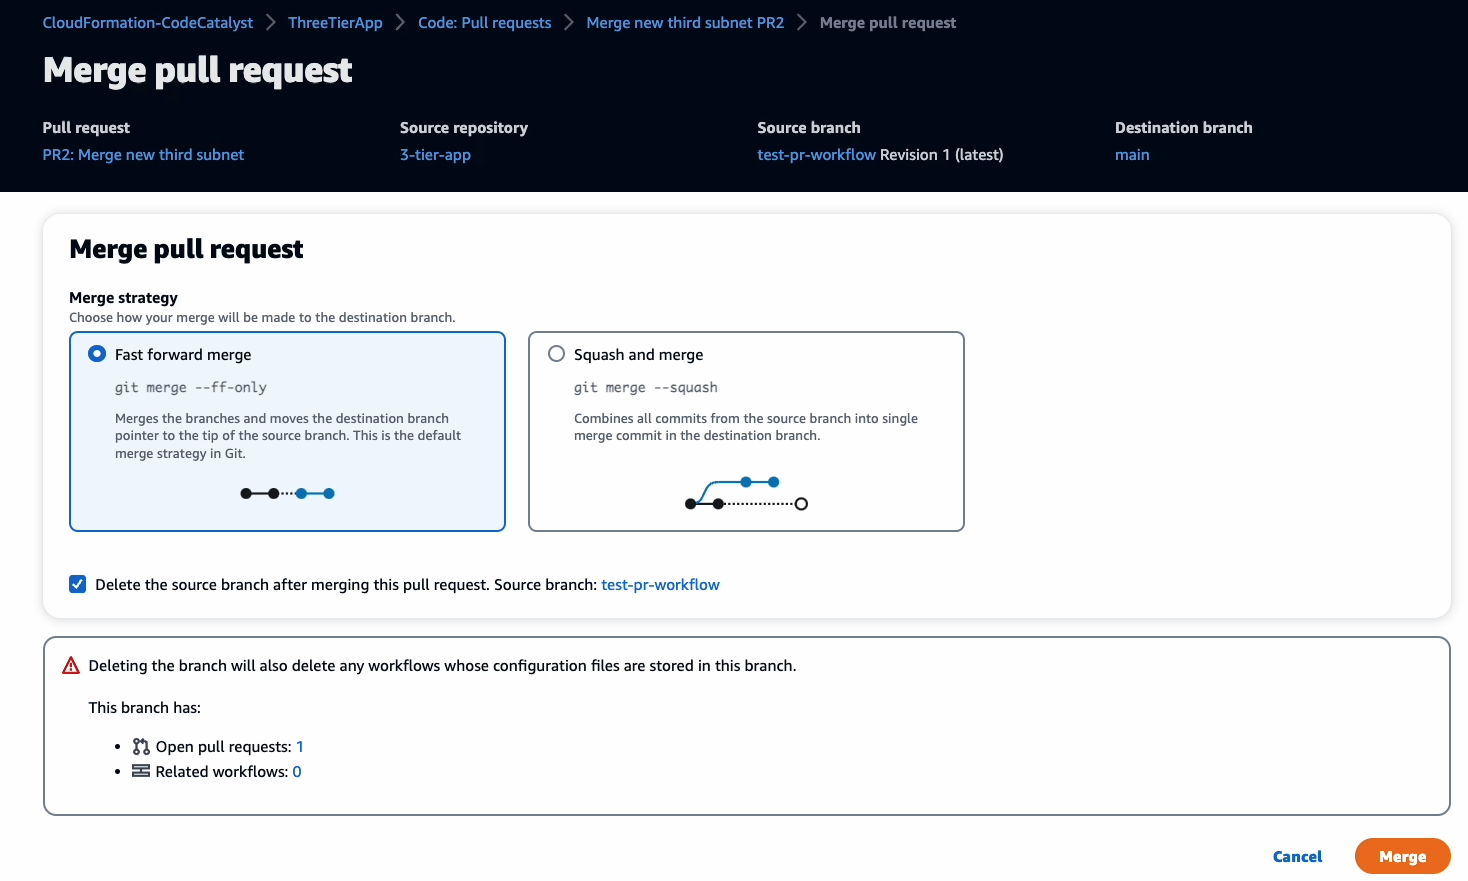
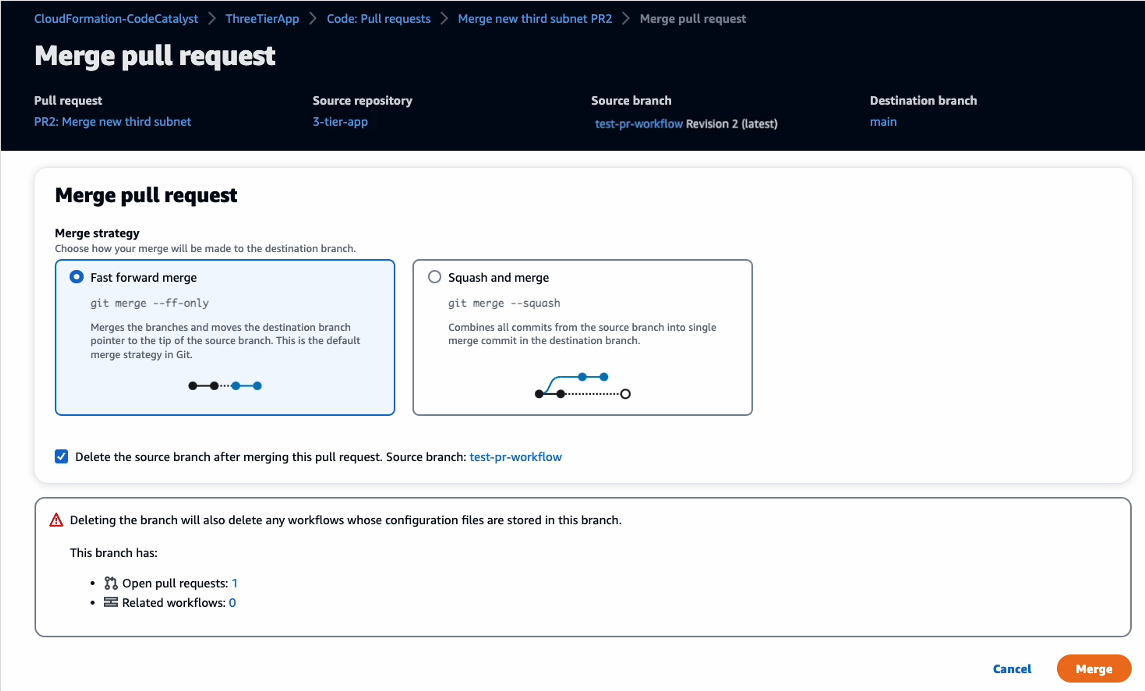
added cfn-lint action to PR workflow
As suggested, added cfn-lint action to PR workflow and updated images for same.

diff --git a/tutorials/build-ci-cd-pipeline-iac-cloudformation/index.md b/tutorials/build-ci-cd-pipeline-iac-cloudformation/index.md
@@ -24,7 +24,7 @@ This tutorial will show you how to set up a CI/CD pipeline using Amazon CodeCata
 | ✅ AWS experience      | 100 - Beginner                                              |
 | ⏱ Time to complete     | 30 minutes                                                      |
 | 💰 Cost to complete    | Free tier eligible                                               |
-| 🧩 Prerequisites       | - [AWS Account](https://portal.aws.amazon.com/billing/signup#/start/email)<br>- [CodeCatalyst Account](https://codecatalyst.aws)<br>- AWS CloudFormation basic understanding|
+| 🧩 Prerequisites       | - [AWS Account](https://portal.aws.amazon.com/billing/signup#/start/email)<br>- [CodeCatalyst Account](https://codecatalyst.aws)<br>- AWS [CloudFormation basic understanding](https://docs.aws.amazon.com/AWSCloudFormation/latest/UserGuide/cfn-whatis-howdoesitwork.html)|
 | 💻 Code Sample         | Code sample used in tutorial on [GitHub](https://github.com/build-on-aws/ci-cd-iac-aws-cloudformation)                            |
 | 📢 Feedback            | <a href="https://pulse.buildon.aws/survey/DEM0H5VW" target="_blank">Any feedback, issues, or just a</a> 👍 / 👎 ?    |
 | ⏰ Last Updated        | 2023-03-02                                                      |
@@ -47,7 +47,7 @@ Follow steps in the documentation to set [Setting up CodeCatalyst](https://docs.
 #### <b>IAM Roles </b>
 We need to create CloudCatalyst service roles in our AWS account. These will be using these to provide permission to CodeCatalyst. This is one time activity only.
 
-Simply deploy a CloudFormation stack. You can find detailed instuctions on how to deploy this stack using AWS Console [here](https://docs.aws.amazon.com/AWSCloudFormation/latest/UserGuide/GettingStarted.Walkthrough.html#GettingStarted.Walkthrough.createstack).
+Simply deploy a CloudFormation stack. You can find detailed instructions on how to deploy this stack using AWS Console [here](https://docs.aws.amazon.com/AWSCloudFormation/latest/UserGuide/GettingStarted.Walkthrough.html#GettingStarted.Walkthrough.createstack).
 
 - Stack name `CodeCatalyst-IAM-roles` 
 - Region: any (preferred `us-west-2`)
@@ -102,7 +102,7 @@ Lastly, we need to setup the AWS environment where our CloudFormation stack will
 From the left navigation panel, select `CI/CD`, `Environments` and click on `Create Environment`. In the Environment details enter following :
 - Environment name : `PreProdEnv`
 - Environment type : `Non-production`
-- Description : `Preprod environment to learn, test and experiment with CloudFormation`
+- Description : `Pre-production environment to learn, test and experiment with CloudFormation`
 - AWS account connection 
     - `Connection` : Select the AWS account ID that will be used in the workflows to deploy this environment
 
@@ -219,8 +219,12 @@ To create the workflow, create a hidden folder in your repo and add a `main_bran
 mkdir -p .codecatalyst/workflows
 touch .codecatalyst/workflows/main_branch.yaml
 ```
+</br>
 
-Open `.codecatalyst/workflows/main_branch.yaml` in your IDE, and add the following - remember to replace the placeholder AWS account ID `123456789012` with the value of your account, and the IAM role name `main_branch_IAM_role`, if you changed it :
+Open `.codecatalyst/workflows/main_branch.yaml` in your IDE, and add the following. Remember to 
+- replace the placeholder AWS account ID `123456789012` with the value of your account, and the IAM role name `main_branch_IAM_role`, if you changed it
+- if you are using your own CloudFormation template, replace the CloudFormation filename in `template`, 
+</br>
 
 * main_branch.yaml
 ``` yaml
@@ -253,6 +257,7 @@ Actions:
       Sources:
         - WorkflowSource
 ```
+</br>
 
 In the workflow, we have provided parameter values for the CloudFormation stack creation. If you are using your own template, make sure you modify the parameter-overrides section and the template name accordingly.
 
@@ -286,8 +291,7 @@ remote: Validating objects: 100%
 To https://git.us-west-2.codecatalyst.aws/v1/CloudFormation-CodeCatalyst/ThreeTierApp/3-tier-app
    eca3764..5677f67  main -> main
 ```
-
-
+</br>
 
 In your browser, navigate to the `CI/CD` -> `Workflows` page. You should see the workflow running:
 
@@ -322,18 +326,22 @@ Lets say you now want to make changes to the infrastructure. For example, we wan
 
 As a **best practice**, you should never make changes directly to the main branch. We should always create a separate branch on which changes will be done, and once these changes are approved by reviewers they will be merged with main branch. There are many git branching strategies that you can explore and use for your specific org/team needs. 
 
-For this blog, I am keeping it simple. Anytime I need to make changes, I am creating a new branch. I then create a Pull Request (PR) to merge the new branch with main branch. As shown in the image, anytime a PR is opened, CodeCatalyst will automatically run PR workflow to create a changeset. Once a reviewer approves the PR merge, then `main_workflow` we created earlier will merge the code and deploy changes to `PreProdEnv`, my non-prod environment. You might have different branching strategies and more tests for your production environment deployment.
+For this blog, I am keeping it simple. Anytime I need to make changes, I am creating a new branch _(step2)_ and I make new changes to infrastructure here _(step3)_. I then create a Pull Request (PR) to merge the new branch with main branch. As shown in the image, anytime a PR is opened _(step4)_, CodeCatalyst will automatically run PR workflow to create a changeset _(step5)_. A ChangeSet allows you to preview how proposed changes to a stack might impact your currently running resources, you can then decide if you want to execute the changes or not.
+
+Once a reviewer approves the changes, and proceeds with merging the pull request _(step6)_, the `main_workflow` that we created earlier will automatically merge the code and deploy changes to `PreProdEnv`, my non-prod environment _(step7)_. You might have different branching strategies and more tests for your production environment deployment.
 
 
 ![Branches and workflows used in the blog](images/branching_workflows_blog_sequence.png)
 
-We are going to first write a PR workflow, so that anytime a new Pull request is created CodeCatalyst will first run this workflow. In this PR workflow, we are **NOT deploying** any changes to the PreProdEnv. When a PR is opened or revised, we are simply creating a CloudFormation changeset. 
-
-Notice the `no-execute-changeset: "1"`option in the workflow below, it indicates whether to run the change set or have it reviewed. Default is `'0'`, which means it will run the change set. We don't want it to execute the changes, we just want to see the changes that will happen if PR is merged, hence we set it to `'1'`, do not execute the changeset.
+We are going to first write a PR workflow, so that anytime a new Pull request is created CodeCatalyst will first run this workflow. In this PR workflow, we are **NOT deploying** any changes to the PreProdEnv. When a PR is opened or revised, we are validating it using [super-linter](https://github.com/marketplace/actions/super-linter) and then creating a CloudFormation changeset. 
 
 Create a new file `pr_branch.yaml` in the hidden `.codecatalyst/workflows/` directory and paste following. 
 
-Remember to replace the placeholder AWS account ID `123456789012` with the value of your account, and the IAM role name `pr_branch_IAM_role`, if you changed it :
+Remember to :
+- replace the placeholder AWS account ID `123456789012` with the value of your account, and the IAM role name `main_branch_IAM_role`, if you changed it
+- if you are using your own CloudFormation template, replace the CloudFormation filename in `template`, 
+
+</br>
 
 * pr_branch.yaml
 ```yaml
@@ -351,8 +359,31 @@ Triggers:
 
 # Required - Define action configurations.
 Actions:
-  DeployAWSCloudFormationstack_7c:
+  Super-Linter_0d:
+    # Identifies the action. Do not modify this value.
+    Identifier: aws/github-actions-runner@v1
+
+    # Specifies the source and/or artifacts to pass to the action as input.
+    Inputs:
+      # Optional
+      Sources:
+        - WorkflowSource # This specifies that the action requires this Workflow as a source
+
+    # Defines the action's properties.
+    Configuration:
+      # Required - Steps are sequential instructions that run shell commands
+      # Action URL: https://github.com/marketplace/actions/super-linter
+      # Please visit the action URL to look for examples on the action usage.
+      # Be aware that a new version of the action could be available on GitHub.
+      Steps:
+        - name: Lint Code Base
+          uses: github/super-linter@v4
+          env:
+            VALIDATE_CLOUDFORMATION: "true"
+  CreateChangeSet:
     Identifier: aws/cfn-deploy@v1
+    DependsOn: 
+      - Super-Linter_0d    
     Configuration:
       parameter-overrides: SSHLocation=54.10.10.2/32,WebServerInstanceType=t2.micro
       capabilities: CAPABILITY_IAM,CAPABILITY_NAMED_IAM,CAPABILITY_AUTO_EXPAND
@@ -371,6 +402,15 @@ Actions:
         - WorkflowSource
 ```
 </br>
+
+In the above Pull Request Workflow, notice following definitions :
+
+1. In the `Super-Linter_0d` action, we are defining `VALIDATE_CLOUDFORMATION: "true"` environment variable. This ensures that our CloudFormation template is validated using the `cfn-lint` github action. [cfn-lint](https://github.com/aws-cloudformation/cfn-lint) is an open source tool that helps validate AWS CloudFormation yaml/json templates against the [AWS CloudFormation Resource Specification](https://docs.aws.amazon.com/AWSCloudFormation/latest/UserGuide/cfn-resource-specification.html) and additional checks. Includes checking valid values for resource properties and best practices.
+
+2. In the `CreateChangeSet` action, the `no-execute-changeset: "1"`option in the workflow below, it indicates whether to run the change set or have it reviewed. Default is `'0'`, which means it will run the change set. We don't want it to execute the changes, we just want to see the changes that will happen if PR is merged, hence we set it to `'1'`, do not execute the changeset.
+
+3. In the `CreateChangeSet` action, we have added a new property `DependsOn: - Super-Linter_0d`. This tells the workflow to first run `Super-Linter_0d` action, and if it is successful, only then run the `CreateChangeSet` action.
+
  
 Now stage, commit, and push our changes directly to the main branch using following commands:
 ``` bash
@@ -402,10 +442,12 @@ CodeCatalyst will then create another workflow. You can confirm this from the Co
 
 ![CodeCatalyst PR Branch Workflow added](images/cc_pr_branch_workflow.png)
 </br>
- 
-Now lets go back to our Dev Environment and make changes to our infrastructure - add a third subnet to the VPC and update resources.
 
-Before we start making changes to the CloudFormation template, ensure we have created a new test-pr-workflow branch. 
+If you click on the `PR_Branch_Workflow`, you can see the workflow. As defined in the workflow yaml above, the workflow will run the  action `Super-Linter_0d` first and if it is successful, only then it will run action `CreateChangeSet`.
+
+ ![CodeCatalyst PR Branch Workflow sequence and dependency](images/cc_pr_workflow.png)
+
+Now lets go back to our Dev Environment and before we start making changes to the CloudFormation template, ensure we have created a new test-pr-workflow branch. 
 
 **Output :** 
 ``` bash
@@ -415,14 +457,14 @@ Switched to a new branch 'test-pr-workflow'
 
 ### Make changes to Cloudformation template
 
-- If you are using **your own CloudFormation template**, make any changes to the template to create a change set.
+- If you are using **your own CloudFormation template**, make any changes to the template to create a change set. 
 
-- **For the sample CloudFormation template** used in this blog, you have 2 options : 
+- **For the sample CloudFormation template** used in this blog, you have **2 options** : 
   - simply **replace its content** with [this already modified template](https://raw.githubusercontent.com/build-on-aws/ci-cd-iac-aws-cloudformation/main/cloudformation-templates/VPC_AutoScaling_With_Public_IPs-3-subnets.json). Make sure the name of template file is same(*VPC_AutoScaling_With_Public_IPs.json*), as workflow has filename mentioned in it, 
   
       OR
 
-  - you can **make following changes** to the template :
+  - you can **make following changes manually** to add third subnet and its resources to the template :
 
     Add following JSON code to the sample CloudFormation template under `Resources` section. 
 
@@ -525,7 +567,7 @@ branch 'test-pr-workflow' set up to track 'origin/test-pr-workflow'.
 ```
 </br>
  
-In the CodeCatalyst Console, navigate to Code -> Repository. You can see the 2 branches main and test-pr-workflow.
+In the CodeCatalyst Console, navigate to `Code` -> `Repository`. You can see the 2 branches `main` and `test-pr-workflow`.
 
 ![CodeCatalyst two branches main default and test-pr-workflow](images/cc_branches.png)
 </br>
@@ -550,22 +592,126 @@ Note, that our source branch is `test-pr-workflow` and our destination for merge
 
 >To see the active run for `PR_Branch_Workflow`, in the CodeCatalyst console, navigate to the `CI/CD` -> `Workflows` page and ensure you select the `test-pr-workflow` branch. By default, the Workflows page always shows the `main` branch. You have to switch branches to see the active workflow in other branches.
 
+</br>
 
-You can goto CloudFormation Console, Changeset and verify the changes proposed by the new pull request. 
+Now you might notice, that this run on `PR_Branch_Workflow` has `failed`.
+![CodeCatalyst run on PR_Branch_Workflow has failed](images/cc_pr_branch_lint_failed.png)
+</br>
+
+If you expand the _**Lint Code Base**_ you will find following :
+```LOG
+[INFO]   --------------------------------------------
+[INFO]   Gathering user validation information...
+[INFO]   - Validating ALL files in code base...
+[INFO]   ----------------------------------------------
+[INFO]   Linting [CLOUDFORMATION] files...
+[INFO]   ----------------------------------------------
+[INFO]   File:[/github/workspace/VPC_AutoScaling_With_Public_IPs.json]
+[ERROR]   Found errors in [cfn-lint] linter!
+[ERROR]   Error code: 4. Command output:
+------
+W7001 Mapping 'AWSInstanceType2NATArch' is defined but not used
+/github/workspace/VPC_AutoScaling_With_Public_IPs.json:56:5
+------
+[INFO]   ----------------------------------------------
+[INFO]   The script has completed
+[INFO]   ----------------------------------------------
+[ERROR]   ERRORS FOUND in CLOUDFORMATION:[1]
+[FATAL]   Exiting with errors found!
+```
+</br>
+
+So, our CloudFormation template did parse through cfn-lint and found one error. We have a mapping resource that is defined but never used anywhere in the template. We should delete this in the template file and push changes to the `test-pr-workflow`
+
+So, back in the Dev Environment on AWS Cloud9  **remove** following block from the CloudFormation template : 
+
+```JSON
+    "AWSInstanceType2NATArch" : {
+      "t1.micro"    : { "Arch" : "NATHVM64"  },
+      "t2.nano"     : { "Arch" : "NATHVM64"  },
+      "t2.micro"    : { "Arch" : "NATHVM64"  },
+      "t2.small"    : { "Arch" : "NATHVM64"  },
+      "t2.medium"   : { "Arch" : "NATHVM64"  },
+      "t2.large"    : { "Arch" : "NATHVM64"  },
+      "m4.large"    : { "Arch" : "NATHVM64"  },
+      "m4.xlarge"   : { "Arch" : "NATHVM64"  },
+      "c1.medium"   : { "Arch" : "NATHVM64"  }
+    },
+```
+</br>
+
+Save the file, stage, commit and push the changes to `test-pr-workflow` branch. As this is a revision to the branch, it should automatically trigger the workflow to run again.
+
+```bash
+$ git add .
+$ git commit -m "Removed unused AWSInstanceType2NATArch mapping"
+$ git push --set-upstream origin test-pr-workflow
+``` 
+</br> 
+
+Output : 
+```
+$ git add .
+$ git commit -m "Removed unused AWSInstanceType2NATArch mapping"
+[test-pr-workflow 64a27b5] Removed unused AWSInstanceType2NATArch mapping
+ 1 file changed, 1 insertion(+), 11 deletions(-)
+$ git push  --set-upstream origin test-pr-workflow
+Enumerating objects: 5, done.
+Counting objects: 100% (5/5), done.
+Delta compression using up to 2 threads
+Compressing objects: 100% (3/3), done.
+Writing objects: 100% (3/3), 319 bytes | 159.00 KiB/s, done.
+Total 3 (delta 2), reused 0 (delta 0), pack-reused 0
+remote: Validating objects: 100%
+To https://git.us-west-2.codecatalyst.aws/v1/CloudFormation-CodeCatalyst/ThreeTierApp/3-tier-app
+   1f8e97d..64a27b5  test-pr-workflow -> test-pr-workflow
+branch 'test-pr-workflow' set up to track 'origin/test-pr-workflow'.
+```
+</br>
+
+In your browser, navigate to the `CI/CD` -> `Workflows` page. Make sure you select the `test-pr-workflow` branch. A new run should now be active.
+
+You can confirm the new workflow has run successfully.
+![Alt text](images/cc_super_lint_success_1.png)
+</br>
+
+If you expand on _**Lint Code Base**_, you will find following text that identifies no errors :
+```LOG
+[INFO]   --------------------------------------------
+[INFO]   Gathering user validation information...
+[INFO]   - Validating ALL files in code base...
+[INFO]   ----------------------------------------------
+[INFO]   Linting [CLOUDFORMATION] files...
+[INFO]   ----------------------------------------------
+[INFO]   File:[/github/workspace/VPC_AutoScaling_With_Public_IPs.json]
+[INFO]   - File:[VPC_AutoScaling_With_Public_IPs.json] was linted
+[INFO]   ----------------------------------------------
+[INFO]   The script has completed
+[INFO]   ----------------------------------------------
+[NOTICE]   All file(s) linted successfully with no errors detected
+```
+</br>
+
+Now, the workflow will proceed to next action `CreateChangeSet`. 
+
+![CodeCatalyst PR Workflow CreateChangeSet Success](images/cc_createchangeset_success.png)
+</br>
+
+Once the action is successful, you can goto CloudFormation Console, Changeset tab and verify the changes proposed by the new pull request. 
 
 ![Console CloudFormation Changeset ](images/console_cfn_change_set.png)
 </br>
 
-A reviewer will confirm the changes and then click on `Merge` 
+A reviewer will confirm that all the actions have run successfully, the changeset is clean. In our case, I am the reviewer so in my browser, I will goto the `Code` -> `Pull Requests`, and then click on `Merge`.
 
-If there are conflicts, or if the merge can't be completed, the merge button is inactive, and a `Not mergeable` label is displayed.  In that case, you must obtain approval from any required approvers, resolve conflicts locally if necessary, and push those changes before you can merge.
+>If there are conflicts, or if the merge can't be completed, the merge button is inactive, and a `Not mergeable` label is displayed. In that case, you must obtain approval from any required approvers, resolve conflicts locally if necessary, and push those changes to the `test-pr-workflow` before you can merge. 
 
-![CodeCatalyst Mergeable request all green](images/cc_mergeable_request.png)
- 
+![CodeCatalyst Mergeable request is all green](images/cc_mergeable_request.png)
+
 </br>
 At this point you have 2 options for merge strategies. :
 
-1. **Fast forward merge** (select this option) - Merges the branches and moves the destination branch pointer to the tip of the source branch. This is the default merge strategy in Git. Select this option for this blog. 
+1. **Fast forward merge** - Merges the branches and moves the destination branch pointer to the tip of the source branch. This is the default merge strategy in Git. **Select this option** for this blog. 
 </br>
 
 2. **Squash and merge** - Combines all commits from the source branch into single merge commit in the destination branch.
@@ -587,7 +733,8 @@ You can optionally confirm the newly created subnet in the VPC console.
 
 ## Cleanup
 
-We have now reached the end of this tutorial, you can further explore the features of CodeCatalyst like inviting team members, or creating issues. If you no longer wish to explore further, then delete all the resources we created here. Cleanup CloudFormation stacks in your AWS account. Open the [AWS CloudFormation console](https://console.aws.amazon.com/cloudformation), delete the `PreProdEnvStack` and `CodeCatalyst-IAM-roles`.
+We have now reached the end of this tutorial, we learned how to create workflows, pull request, how to use actions - to create ChangeSet, to deploy CloudFormation stack and to run cfn-lint on our template before we make infrastructure changes. 
+you can further explore the features of CodeCatalyst like inviting team members, or creating issues. If you no longer wish to explore further, then delete all the resources we created here. Cleanup CloudFormation stacks in your AWS account. Open the [AWS CloudFormation console](https://console.aws.amazon.com/cloudformation), delete the `PreProdEnvStack` and `CodeCatalyst-IAM-roles`.
 
 To delete the project we created in CodeCatalyst. In the left-hand navigation, go to `Project settings`, click on `Delete project`, and follow the instructions to delete the project.
 
